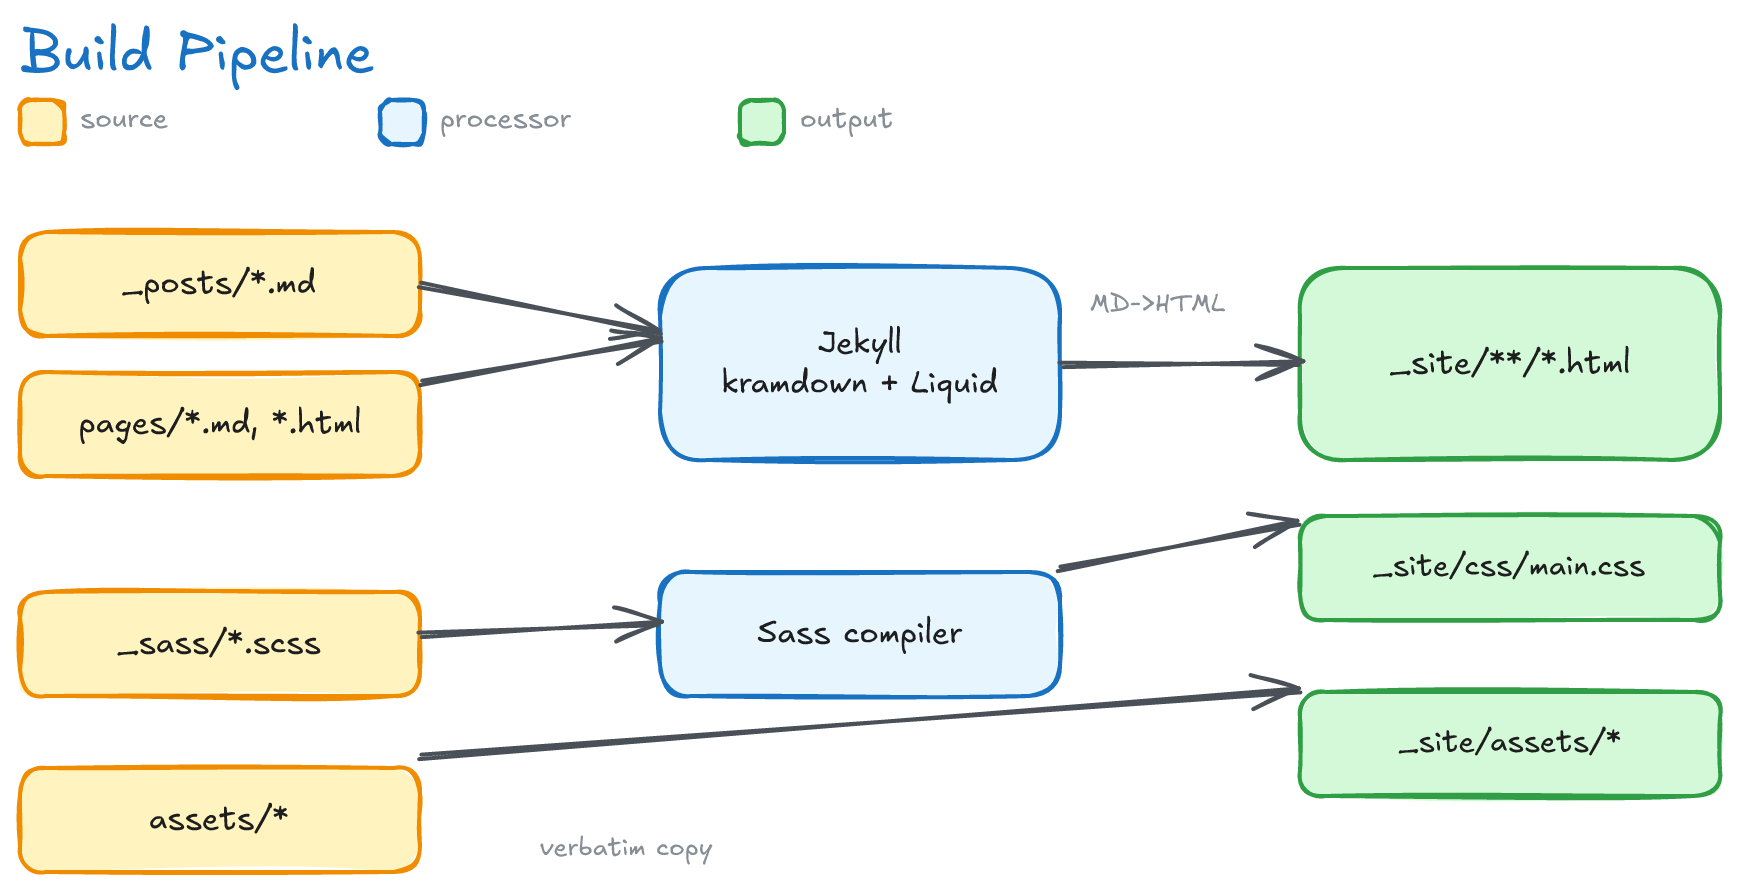
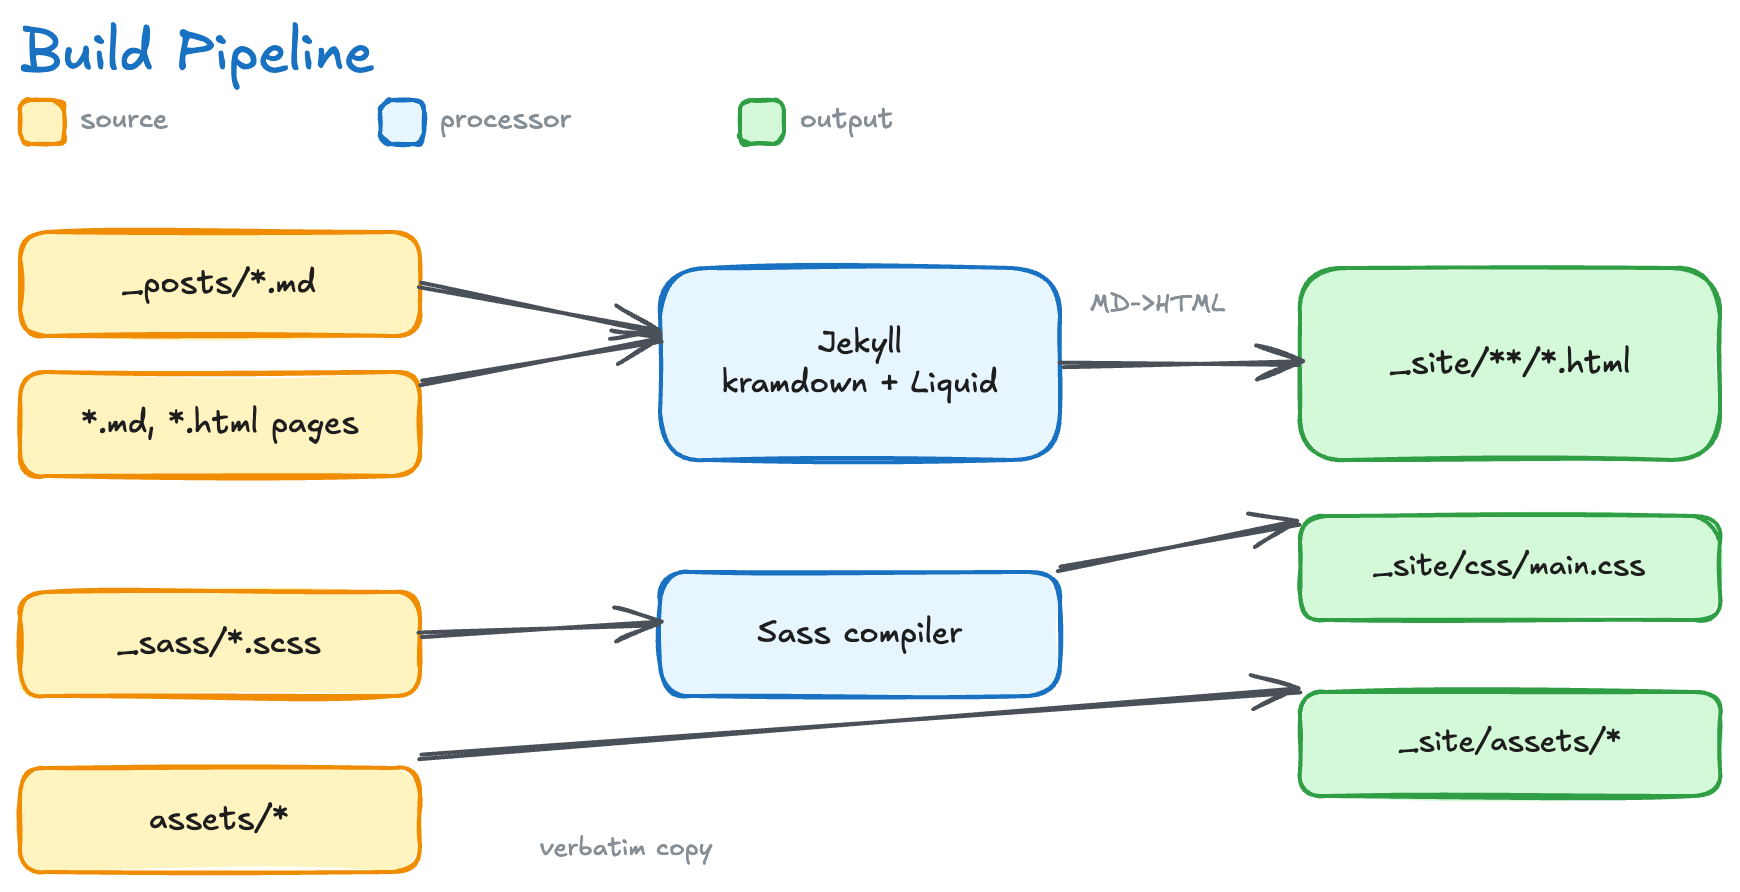
docs: correct image, cover, subcategory and author conventions
Align the READMEs and tech doc with the code: flat assets/images/ for
new figures, cover by subcategory or insights.jpg, Data-Architecture as a
subcategory, paper_author, how render-diagrams.sh handles the font, and
the build-pipeline diagram's source box.

diff --git a/docs/tech-doc.md b/docs/tech-doc.md
@@ -110,7 +110,8 @@ Pages가 그대로 서빙.**
   글이 어느 내비 탭에 들어갈지를 정한다. 넷 다 전용 페이지와 탭을 가지며, 글이 없는 유형은
   빈 상태 문구를 띄운다(아래 "내비게이션은 코드가 아니라 데이터가 만든다" 참조).
 - **1단계 (주제)** — `Language-Models`, `Multimodal-Learning`, `Finetuning`,
-  `Retrieval-Augmented-Generation`, `Agentic-AI` 등. 세부 주제이며 필요하면 자유롭게 추가한다.
+  `Retrieval-Augmented-Generation`, `Agentic-AI`, `Data-Architecture` 등. 세부 주제이며
+  필요하면 자유롭게 추가한다.
 
 이 둘과 **날짜**가 합쳐져 출력 경로(=URL)가 된다:
 
@@ -151,7 +152,7 @@ _site/paper reviews/language-models/2025/01/23/<slug>.html
 
 > **함정 — 카테고리 "누수".** Liquid의 `site.categories`는 그 이름이 달린 글을 **유형
 > 구분 없이** 전부 모은다. 그래서 *모든* 카테고리를 순회하는 페이지를 만들면, 다른 유형의
-> 글이 같은 1단계 주제를 공유할 때 엉뚱하게 딸려 온다(예: `Agentic-AI` 태그가 붙은
+> 글이 같은 1단계 주제를 공유할 때 엉뚱하게 딸려 온다(예: 1단계 주제가 `Agentic-AI`인
 > `Insights` 글이 Paper Reviews 목록에 노출). 유형 페이지들은 이를 막으려고 **반드시
 > `site.categories['<유형>']`으로 먼저 거른 뒤** 주제별로 그룹화한다 — 절대 반대 순서로
 > 하지 않는다.
@@ -352,8 +353,10 @@ Bourbon → base/ → Neat → _layout → _post → _tags → _syntax(Rouge 코
   안내한다. 손으로 만든 `robots.txt`를 두면 그 생성이 꺼진다. `head.html`은
   `<link rel="alternate">`로 피드 위치를 알린다. 내용이 없는 `/search/`와 `404.html`은
   `sitemap: false`로 사이트맵에서 뺀다.
-- **구조화 데이터** — 글의 JSON-LD `author`는 항상 블로그 저자(`site.name`)다. 논문 글의
-  프런트매터 `author`는 논문을 낸 기관이고, 화면의 "by …" 표기에만 쓰인다.
+- **저자 표기** — 글의 저자는 항상 블로그 저자다. JSON-LD `author`는 `site.name`, 피드의
+  `<author>`는 `site.author`를 쓴다. 논문을 낸 기관은 `author`가 아니라 `paper_author`에
+  적고 화면에 "Paper by …"로만 표시한다 — jekyll-feed가 글의 `author`를 피드 저자로 쓰기
+  때문이다.
 - **검색 노출 검사** — `script/validate-site.sh`가 빌드된 사이트를 훑어 사이트맵·피드가
   파싱되는지, 페이지당 `h1`이 1개인지, 헤딩 레벨을 건너뛰지 않는지, 모든 페이지에 설명문과
   canonical이 있는지, 설명문·제목이 중복되지 않는지 등을 확인한다. **검사 목록의 정본은
@@ -390,8 +393,9 @@ Bourbon → base/ → Neat → _layout → _post → _tags → _syntax(Rouge 코
 - **검색 색인이 조용히 망가짐** — `google*.html`/`naver*.html`을 `exclude`하면 소유권
   인증이 풀림. → `exclude`에 넣지 않는다. (§7)
 - **다이어그램 폰트가 손글씨체가 아닌 일반체로 나옴** — Resvg(다이어그램 PNG 변환기)는
-  Excalidraw의 woff2 `@font-face`를 못 읽는다. → `assets/images/render-diagrams.sh`처럼
-  전체 Excalifont `.ttf`를 `fontFiles`로 넘긴다. 또한 Excalifont에 없는 글자(`→`,`✓`,`✗`)는
+  Excalidraw의 woff2 `@font-face`를 못 읽는다. → `assets/images/render-diagrams.sh`가 SVG에서
+  `@font-face`를 지우고 `font-family`를 Excalifont로 바꾼 뒤 시스템 폰트로 렌더한다. 그래서
+  전체 Excalifont `.ttf`가 시스템에 설치돼 있어야 한다(설치 방법은 스크립트 머리 주석). 또한 Excalifont에 없는 글자(`→`,`✓`,`✗`)는
   라벨 전체를 기본 폰트로 fallback시키므로, 다이어그램 텍스트에서는 ASCII(`->` 등)로 바꾼다.
 
 ## 9. 알려진 이슈 / 백로그

diff --git a/README.ko.md b/README.ko.md
@@ -81,8 +81,8 @@ _plugins/          reading_time.rb      (한·영 읽기 시간 계산)
 css/               main.scss(Sass 진입점) · search.css(검색 페이지 전용)
 js/                main.js(테마 토글·코드 복사·목차·메뉴·이미지 확대 등)
                    search.js(검색창 동작)
-assets/images/     토픽별로 재사용하는 공용 커버 이미지
-assets/<slug>/     글마다 하나씩 두는 그림 폴더
+assets/images/     토픽별 커버 이미지와 글의 그림·다이어그램(플랫)
+assets/<slug>/     일부 오래된 글의 그림 폴더. 새 글은 assets/images/를 씀
 search.json        전체 본문 검색 색인 (simple-jekyll-search가 사용)
 test/              _plugins/ 로직의 minitest 단위 테스트
 script/            validate-site.sh (빌드 후 검색 노출 검사)
@@ -107,7 +107,7 @@ layout: post
 title: "<글 제목>"
 subtitle: "<한 줄 소개>"            # 선택 — 헤더의 제목 아래에 표시됩니다
 date: YYYY-MM-DD HH:MM:SS
-author: "<저자>"                   # 논문 저자(기관). Insights·의견 글이면 생략
+paper_author: "<저자>"             # 논문 저자(기관). Insights·의견 글이면 생략
 description: >-                    # 선택 — 아래 설명 참고
   <검색 결과에 노출될 문장, 150자 안팎>
 categories: ["<유형>", "<주제>"]
@@ -142,7 +142,8 @@ RSS `<summary>`에 실리는 문장입니다. 생략하면 `_plugins/post_descri
   **탭을 유지하고** 빈 상태 문구를 띄웁니다 — 탭이 없으면 채우는 중인 섹션이 아니라
   없어진 섹션으로 읽히기 때문입니다.
 - `categories[1]` — **주제**: `Language-Models`, `Multimodal-Learning`,
-  `Finetuning`, `Retrieval-Augmented-Generation`, `Agentic-AI` 등. 필요하면 자유롭게 추가합니다.
+  `Finetuning`, `Retrieval-Augmented-Generation`, `Agentic-AI`, `Data-Architecture` 등.
+  필요하면 자유롭게 추가합니다.
 
 Jekyll은 이 둘과 날짜를 합쳐 출력 경로를 만듭니다.
 

diff --git a/README.md b/README.md
@@ -83,8 +83,8 @@ _plugins/          reading_time.rb      (KO/EN-aware read time)
 css/               main.scss (Sass entry point) · search.css (search page only)
 js/                main.js (theme toggle, code-copy, TOC, menu, image zoom…)
                    search.js (drives the search box)
-assets/images/     Shared cover images, reused across posts by topic
-assets/<slug>/     Per-post figures, one folder per post
+assets/images/     Topic cover images, plus post figures and diagrams (flat)
+assets/<slug>/     Figures of some older posts; new posts use assets/images/
 search.json        Full-text search index (consumed by simple-jekyll-search)
 test/              minitest unit tests for the _plugins/ logic
 script/            validate-site.sh (post-build discoverability checks)
@@ -111,7 +111,7 @@ layout: post
 title: "<Post Title>"
 subtitle: "<one-line pitch>"       # optional — shown under the title in the header
 date: YYYY-MM-DD HH:MM:SS
-author: "<Author>"                 # the paper's org; omit for Insights/opinion posts
+paper_author: "<Author>"           # the paper's org; omit for Insights/opinion posts
 description: >-                    # optional — see below
   <search-snippet, ~150 chars>
 categories: ["<Type>", "<Topic>"]
@@ -147,8 +147,8 @@ Categories are **two levels**:
   A type with no posts yet keeps its tab and renders an empty-state line: a
   missing tab reads as a section that was removed, not one still filling up.
 - `categories[1]` — the **topic**: `Language-Models`, `Multimodal-Learning`,
-  `Finetuning`, `Retrieval-Augmented-Generation`, `Agentic-AI`, … (add new ones
-  freely).
+  `Finetuning`, `Retrieval-Augmented-Generation`, `Agentic-AI`,
+  `Data-Architecture`, … (add new ones freely).
 
 Jekyll combines the two with the date to build the output path:
 
